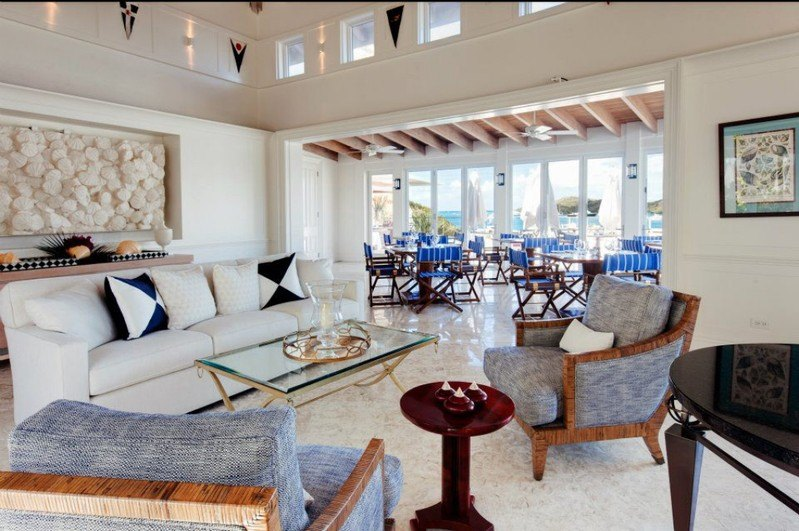
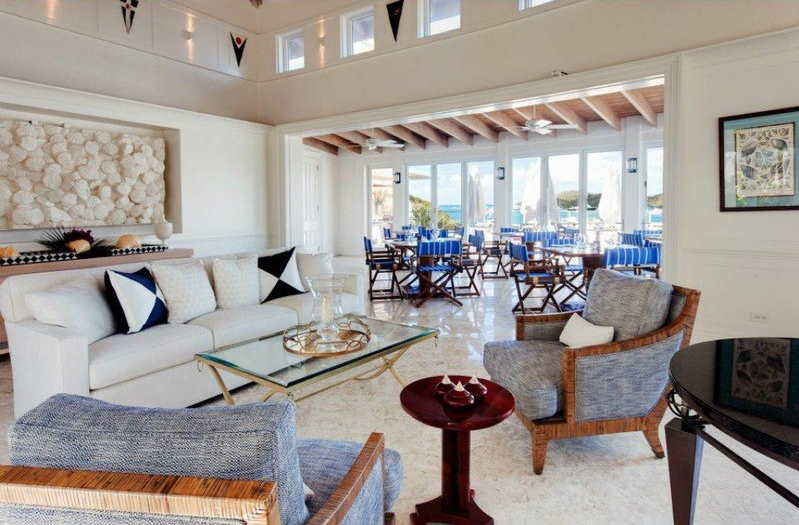
About

diff --git a/assets/css/style.css b/assets/css/style.css
@@ -259,36 +259,80 @@ html[lang="ar"] .h-display{letter-spacing:0;}
 /* ============================================================ ABOUT (reference "About Us") ============================================================ */
 .about{background:var(--surface-page);position:relative;padding-top:130px;}
 @media(max-width:980px){.about{padding-top:100px;}}
-.about-grid{display:grid;grid-template-columns:1.05fr .95fr;gap:72px;align-items:center;}
-@media(max-width:980px){.about-grid{grid-template-columns:1fr;gap:64px;}}
+.about-grid{display:grid;grid-template-columns:1fr 1fr;gap:60px;align-items:center;}
+@media(max-width:1080px){.about-grid{gap:42px;}}
+@media(max-width:980px){.about-grid{grid-template-columns:1fr;gap:48px;align-items:stretch;}}
 
+/* --- left: copy --- */
 .about-copy .overline{margin-bottom:0;}
-.about-copy h2{font-size:clamp(2rem,4.2vw,3rem);letter-spacing:.035em;line-height:1.14;margin:18px 0 24px;}
+.about-copy h2{font-size:clamp(2rem,4.2vw,3rem);letter-spacing:.035em;line-height:1.12;margin:18px 0 26px;}
 html[lang="ar"] .about-copy h2{letter-spacing:0;}
-.about-copy p{color:var(--text-body);max-width:50ch;margin:0 0 var(--space-4);}
-.about-list{list-style:none;margin:28px 0 0;padding:0;display:grid;gap:14px;}
+
+.about-intro{display:flex;gap:20px;align-items:flex-start;}
+.about-intro__thumb{flex:none;width:118px;aspect-ratio:1/1;border-radius:8px;overflow:hidden;box-shadow:var(--shadow-md);display:block;}
+.about-intro__thumb img{width:100%;height:100%;object-fit:cover;}
+.about-intro__text{margin:0;color:var(--text-body);}
+.about-copy__body{color:var(--text-body);margin:18px 0 0;}
+@media(max-width:480px){.about-intro__thumb{width:92px;}}
+
+.about-list{list-style:none;margin:26px 0 0;padding:0;display:grid;gap:14px;}
 .about-list li{display:flex;align-items:flex-start;gap:13px;font-family:var(--font-sans);font-weight:500;color:var(--ink-800);font-size:15.5px;}
 html[lang="ar"] .about-list li{font-family:var(--font-ar-sans);}
 .about-list .ic{width:20px;height:20px;color:var(--gold-500);flex:none;margin-top:2px;}
-.strength{margin-top:34px;border-inline-start:3px solid var(--gold-500);background:var(--stone-100);
-  padding:18px 22px;border-radius:0 6px 6px 0;font-family:var(--font-serif);font-size:1.15rem;color:var(--ink-700);}
-html[dir="rtl"] .strength{border-radius:6px 0 0 6px;}
-html[lang="ar"] .strength{font-family:var(--font-ar-serif);font-size:1.05rem;}
 
-.about-media{position:relative;}
-.about-media .m-main{width:100%;border-radius:10px;box-shadow:var(--shadow-lg);overflow:hidden;aspect-ratio:4/3;}
-.about-media .m-main img{width:100%;height:100%;object-fit:cover;transition:transform var(--dur-slow) var(--ease-out);}
-.about-media:hover .m-main img{transform:scale(1.05);}
-.about-media .m-detail{position:absolute;width:46%;aspect-ratio:1/1;bottom:-34px;inset-inline-end:-26px;
-  border-radius:10px;overflow:hidden;border:6px solid var(--surface-page);box-shadow:var(--shadow-lg);}
-.about-media .m-detail img{width:100%;height:100%;object-fit:cover;}
-.about-media .m-badge{position:absolute;top:-22px;inset-inline-start:-18px;background:var(--ink-900);color:var(--stone-50);
-  border-radius:8px;padding:16px 20px;box-shadow:var(--shadow-lg);max-width:185px;border:1px solid rgba(176,138,60,.4);}
-.about-media .m-badge b{display:block;font-family:var(--font-display);font-size:13px;letter-spacing:.18em;color:var(--gold-300);text-transform:uppercase;margin-bottom:6px;}
-html[lang="ar"] .about-media .m-badge b{font-family:var(--font-ar-display);letter-spacing:0;text-transform:none;font-size:15px;}
-.about-media .m-badge p{margin:0;font-size:13px;color:var(--text-on-dark-muted);line-height:1.5;max-width:none;}
-html[lang="ar"] .about-media .m-badge p{font-family:var(--font-ar-sans);}
-@media(max-width:560px){.about-media .m-detail,.about-media .m-badge{display:none;}}
+.strength{margin-top:28px;border-inline-start:3px solid var(--gold-500);background:var(--stone-100);
+  padding:16px 20px;border-radius:0 6px 6px 0;font-family:var(--font-serif);font-size:1.12rem;color:var(--ink-700);}
+html[dir="rtl"] .strength{border-radius:6px 0 0 6px;}
+html[lang="ar"] .strength{font-family:var(--font-ar-serif);font-size:1.02rem;}
+
+.about-cta{margin-top:30px;}
+/* dark CTA button (reference "MORE ABOUT US") */
+.btn-dark{background:var(--ink-900);color:var(--stone-50);border-color:var(--ink-900);}
+.btn-dark:hover{background:var(--gold-500);color:var(--ink-900);border-color:var(--gold-500);transform:translateY(-2px);box-shadow:0 10px 26px rgba(176,138,60,.35);}
+
+/* --- right: showcase (stat + swatch grid + interior figure) --- */
+.about-showcase{display:grid;grid-template-columns:0.92fr 1.08fr;grid-template-rows:auto 1fr;gap:22px;}
+
+.about-stat{grid-column:1;grid-row:1;align-self:end;}
+.about-stat__num{font-family:var(--font-display);font-weight:700;line-height:.86;
+  font-size:clamp(3.4rem,8vw,5.6rem);color:var(--gold-400);letter-spacing:.01em;}
+.about-stat__plus{color:var(--gold-500);}
+.about-stat__lbl{margin-top:8px;font-family:var(--font-display);font-weight:600;text-transform:uppercase;
+  letter-spacing:.14em;font-size:14px;color:var(--ink-900);}
+html[lang="ar"] .about-stat__lbl{font-family:var(--font-ar-display);letter-spacing:0;text-transform:none;font-size:17px;}
+
+.about-swatches{grid-column:1;grid-row:2;display:grid;grid-template-columns:repeat(3,1fr);gap:0px;align-content:start;z-index:2;}
+.about-swatch{display:block;aspect-ratio:1/1;border-radius:0px;background-size:cover;background-position:center;
+  box-shadow:var(--shadow-sm);transition:transform var(--dur-base) var(--ease-out);}
+.about-swatch:hover{transform:scale(1.05);}
+
+.about-figure{grid-column:2;grid-row:1 / span 2;position:relative;margin:0;overflow:visible;}
+.about-figure img{position:relative;width:120%;height:120%;max-width:120%;bottom:30%;right:30%;object-fit:cover;transition:transform var(--dur-slow) var(--ease-out);border-radius:10px;overflow:hidden;box-shadow:var(--shadow-lg);}
+html[lang="ar"] .about-figure img{right:-30%;}
+.about-figure:hover img{transform:scale(1.05);}
+.about-figure__badge{position:absolute;inset-block-end:14px;inset-inline-start:14px;inset-inline-end:14px;
+  background:rgba(13,11,9,.82);backdrop-filter:blur(4px);color:var(--stone-50);
+  border:1px solid rgba(176,138,60,.4);border-radius:8px;padding:12px 16px;}
+.about-figure__badge b{display:block;font-family:var(--font-display);font-size:12px;letter-spacing:.18em;color:var(--gold-300);text-transform:uppercase;margin-bottom:4px;}
+html[lang="ar"] .about-figure__badge b{font-family:var(--font-ar-display);letter-spacing:0;text-transform:none;font-size:14px;}
+.about-figure__badge span{display:block;font-size:13px;color:var(--text-on-dark-muted);line-height:1.5;}
+html[lang="ar"] .about-figure__badge span{font-family:var(--font-ar-sans);}
+
+/* showcase responsive */
+@media(max-width:980px){
+  .about-showcase{grid-template-columns:1fr 1fr;grid-template-rows:auto auto;gap:20px;}
+  .about-figure{grid-column:1 / -1;grid-row:1;}
+  .about-stat{grid-column:1;grid-row:2;align-self:center;}
+  .about-swatches{grid-column:2;grid-row:2;}
+  .about-figure img{position:relative;width:100%;height:100%;max-width:min(100%, 500px);bottom:0;right:0;margin:auto;}
+  html[lang="ar"] .about-figure img{right:0;}
+}
+@media(max-width:560px){
+  .about-showcase{grid-template-columns:1fr;grid-template-rows:auto auto auto;}
+  .about-figure{grid-column:1;grid-row:1;}
+  .about-stat{grid-column:1;grid-row:2;align-self:start;}
+  .about-swatches{grid-column:1;grid-row:3;}
+}
 
 
 /* ============================================================ STATS ============================================================ */

diff --git a/index.html b/index.html
@@ -104,32 +104,64 @@
 <!-- ============================================================ ABOUT (About Us) ============================================================ -->
 <section class="section about" id="about">
   <div class="container about-grid">
+
+    <!-- LEFT — copy -->
     <div class="about-copy reveal">
       <span class="overline" data-i18n="about.eyebrow">About the company</span>
       <h2 data-i18n="about.title">From our quarries to your landmark projects</h2>
-      <p data-i18n="about.lead">
-        SHRAYFY Marble &amp; Granite is a specialist in natural stone — extracting, processing and supplying marble, granite and our signature shell stone from quarries we own and operate.
-      </p>
-      <p data-i18n="about.body">
+
+      <div class="about-intro">
+        <span class="about-intro__thumb">
+          <img src="/assets/images/project-06.jpg" alt="Shrayfy stonework — classical carved marble">
+        </span>
+        <p class="about-intro__text" data-i18n="about.lead">
+          SHRAYFY Marble &amp; Granite is a specialist in natural stone — extracting, processing and supplying marble, granite and our signature shell stone from quarries we own and operate.
+        </p>
+      </div>
+
+      <p class="about-copy__body" data-i18n="about.body">
         Built on long experience in the sector, we control the journey of every slab from the moment it leaves the earth: quarried, cut, finished and delivered. Our focus never changes — high quality, on-time delivery, and meeting each client's exact requirements through our own production and finishing facilities.
       </p>
+
       <ul class="about-list">
         <li><svg class="ic" viewBox="0 0 24 24" fill="none" stroke="currentColor" stroke-width="1.7"><path d="M20 6L9 17l-5-5"/></svg><span data-i18n="about.li1">Uncompromising quality</span></li>
         <li><svg class="ic" viewBox="0 0 24 24" fill="none" stroke="currentColor" stroke-width="1.7"><path d="M20 6L9 17l-5-5"/></svg><span data-i18n="about.li2">On-time delivery, every order</span></li>
         <li><svg class="ic" viewBox="0 0 24 24" fill="none" stroke="currentColor" stroke-width="1.7"><path d="M20 6L9 17l-5-5"/></svg><span data-i18n="about.li3">Built around your requirements</span></li>
       </ul>
+
       <div class="strength" data-i18n="about.strength">Our signature: natural Shell Stone — rich in shells and fossils, with a surface that reads quiet from afar and intricate up close.</div>
+
+      <a href="#products" class="btn btn-dark about-cta">
+        <span data-i18n="about.cta">Discover our stone</span>
+        <svg class="ic arrow" viewBox="0 0 24 24" fill="none" stroke="currentColor" stroke-width="2"><path d="M5 12h14M13 6l6 6-6 6"/></svg>
+      </a>
     </div>
 
-    <div class="about-media reveal reveal-delay-1">
-      <div class="m-main"><img src="/assets/images/project-06.jpg" alt="Shrayfy stonework — classical marble columns"></div>
-      <div class="m-detail"><img src="/assets/images/project-10.jpg" alt="Shell stone staircase"></div>
-      <div class="m-badge">
-        <b data-i18n="about.badge.t">Own Quarries</b>
-        <p data-i18n="about.badge.d">From extraction to finishing, in-house.</p>
+    <!-- RIGHT — showcase -->
+    <div class="about-showcase reveal reveal-delay-1">
+      <div class="about-stat">
+        <div class="about-stat__num">25<span class="about-stat__plus">+</span></div>
+        <div class="about-stat__lbl" data-i18n="about.badge">Years in stone</div>
       </div>
+
+      <div class="about-swatches" aria-hidden="true">
+        <span class="about-swatch" style="background-image:url('/assets/textures/perlato.jpg')"></span>
+        <span class="about-swatch" style="background-image:url('/assets/textures/desert-gold.jpg')"></span>
+        <span class="about-swatch" style="background-image:url('/assets/textures/shanoon-beige.jpg')"></span>
+        <span class="about-swatch" style="background-image:url('/assets/textures/cedar-beige.jpg')"></span>
+        <span class="about-swatch" style="background-image:url('/assets/textures/thorontia.jpg')"></span>
+        <span class="about-swatch" style="background-image:url('/assets/textures/shanoon-sand.jpg')"></span>
+      </div>
+
+      <figure class="about-figure">
+        <img src="/assets/images/project-04.jpg" alt="Shrayfy interior — natural stone living hall">
+        <!-- <figcaption class="about-figure__badge">
+          <b data-i18n="about.badge.t">Own Quarries</b>
+          <span data-i18n="about.badge.d">From extraction to finishing, in-house.</span>
+        </figcaption> -->
+      </figure>
     </div>
-  </div>
+
   </div>
 </section>
 
@@ -139,7 +171,7 @@
     <div class="stats__grid">
       <div class="stat reveal"><div class="stat__num"><span data-count="25">0</span><span class="suffix">+</span></div><div class="stat__lbl" data-i18n="stats.years">Years of experience</div></div>
       <div class="stat reveal reveal-delay-1"><div class="stat__num"><span data-count="320">0</span><span class="suffix">+</span></div><div class="stat__lbl" data-i18n="stats.projects">Completed projects</div></div>
-      <div class="stat reveal reveal-delay-2"><div class="stat__num"><span data-count="18">0</span><span class="suffix">k m²</span></div><div class="stat__lbl" data-i18n="stats.factory">Factory area</div></div>
+      <div class="stat reveal reveal-delay-2"><div class="stat__num"><span data-count="18">0</span><span class="suffix" data-i18n="stats.km">k m²</span></div><div class="stat__lbl" data-i18n="stats.factory">Factory area</div></div>
       <div class="stat reveal reveal-delay-3"><div class="stat__num"><span data-count="5">0</span><span class="suffix">+</span></div><div class="stat__lbl" data-i18n="stats.types">Stone types</div></div>
     </div>
   </div>

diff --git a/assets/js/lang.js b/assets/js/lang.js
@@ -24,7 +24,7 @@ const I18N = {
     "about.f3.t":"Own quarries","about.f3.d":"Direct source, full control.",
     "about.f4.t":"Client-driven","about.f4.d":"Built around each project's needs.",
     "about.cta":"Discover our stone",
-    "stats.years":"Years of experience","stats.projects":"Completed projects","stats.factory":"Factory area","stats.types":"Stone types",
+    "stats.years":"Years of experience","stats.projects":"Completed projects","stats.factory":"Factory area","stats.types":"Stone types","stats.km":"km²",
     "products.eyebrow":"Our products","products.title":"Choose your stone",
     "prod.1.name":"Shell Stone Beige","prod.1.cat":"Shell stone","prod.1.desc":"Warm beige limestone packed with natural shells and fossils — our signature stone.",
     "prod.2.name":"Shell Stone Grey","prod.2.cat":"Shell stone","prod.2.desc":"Cool grey shell stone with dense fossil texture for striking façades and floors.",
@@ -86,7 +86,7 @@ const I18N = {
     "about.f3.t":"محاجر خاصة","about.f3.d":"مصدر مباشر وتحكّم كامل.",
     "about.f4.t":"وفق احتياج العميل","about.f4.d":"نبني حول متطلبات كل مشروع.",
     "about.cta":"اكتشف أحجارنا",
-    "stats.years":"سنوات الخبرة","stats.projects":"مشاريع منجزة","stats.factory":"مساحة المصنع","stats.types":"أنواع الحجر",
+    "stats.years":"سنوات الخبرة","stats.projects":"مشاريع منجزة","stats.factory":"مساحة المصنع","stats.types":"أنواع الحجر","stats.km":"كم²",
     "products.eyebrow":"منتجاتنا","products.title":"اختر حجرك",
     "prod.1.name":"حجر الأصداف البيج","prod.1.cat":"حجر أصداف","prod.1.desc":"حجر كلسي بلون بيج دافئ مليء بالأصداف والأحافير الطبيعية — حجرنا المميّز.",
     "prod.2.name":"حجر الأصداف الرمادي","prod.2.cat":"حجر أصداف","prod.2.desc":"حجر أصداف رمادي بارد بنسيج أحفوري كثيف، مثالي للواجهات والأرضيات اللافتة.",